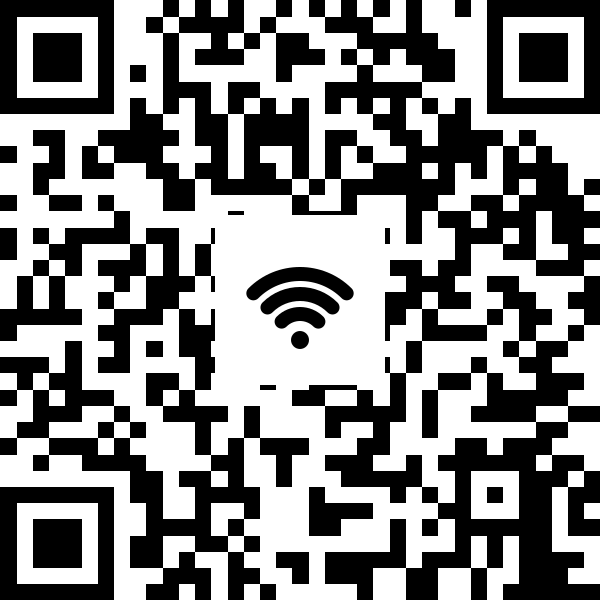
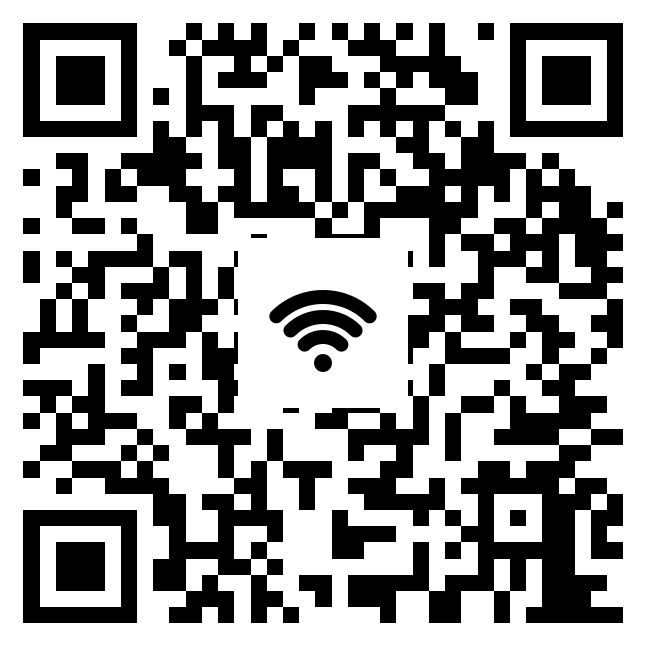
Add white padding with rounded corners around QR codes
- Added 23px (~3mm) white padding around QR codes
- Rounded corners (35px radius) for professional look
- Matches physical card design with curved edges

🤖 Generated with [Claude Code](https://claude.com/claude-code)

diff --git a/generate-qr-png.js b/generate-qr-png.js
@@ -20,12 +20,22 @@ async function generateQRWithIcon(filename, iconSVG) {
     // Load QR code image
     const qrImage = await loadImage(qrDataURL);
 
-    // Create canvas same size as QR code
-    const canvas = createCanvas(qrImage.width, qrImage.height);
+    // Add white padding around QR code (~3mm = ~23px at print resolution)
+    const padding = 23;
+    const borderRadius = 35;
+
+    // Create canvas with padding
+    const canvas = createCanvas(qrImage.width + padding * 2, qrImage.height + padding * 2);
     const ctx = canvas.getContext('2d');
 
-    // Draw QR code
-    ctx.drawImage(qrImage, 0, 0);
+    // Draw white rounded rectangle background
+    ctx.fillStyle = '#FFFFFF';
+    ctx.beginPath();
+    ctx.roundRect(0, 0, canvas.width, canvas.height, borderRadius);
+    ctx.fill();
+
+    // Draw QR code centered with padding
+    ctx.drawImage(qrImage, padding, padding);
 
     // Draw icon container (white square) in center
     const iconSize = 170;
